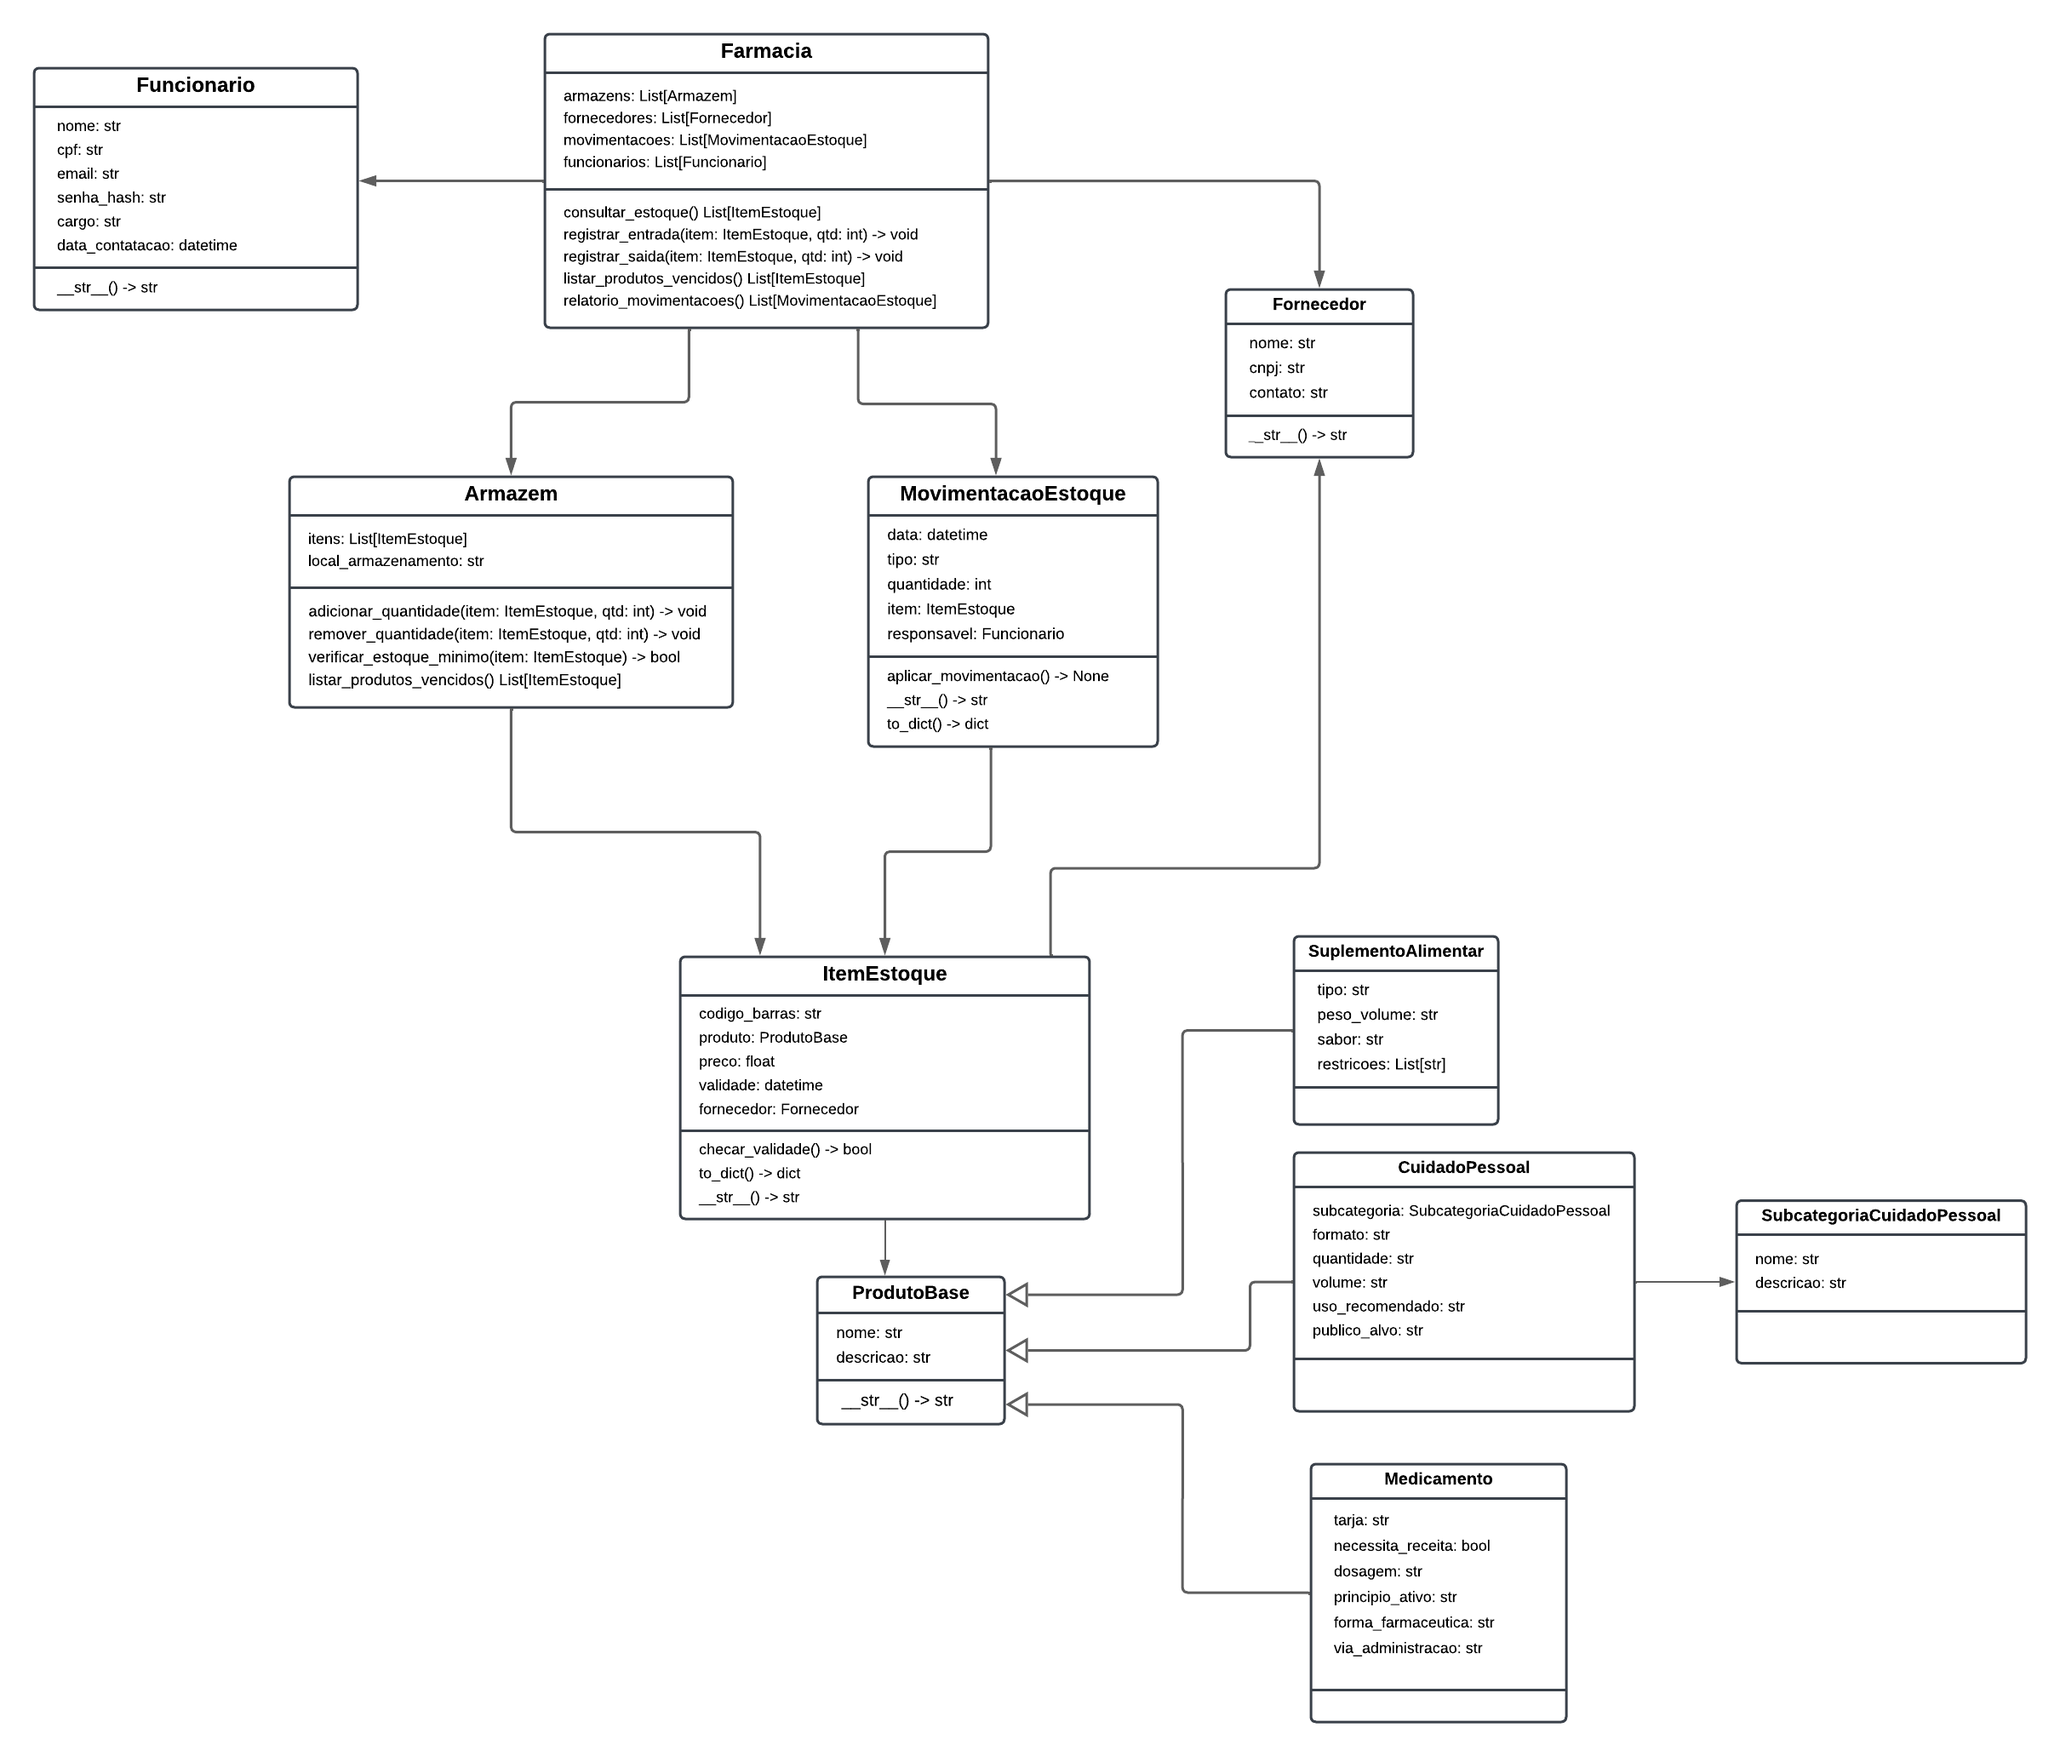
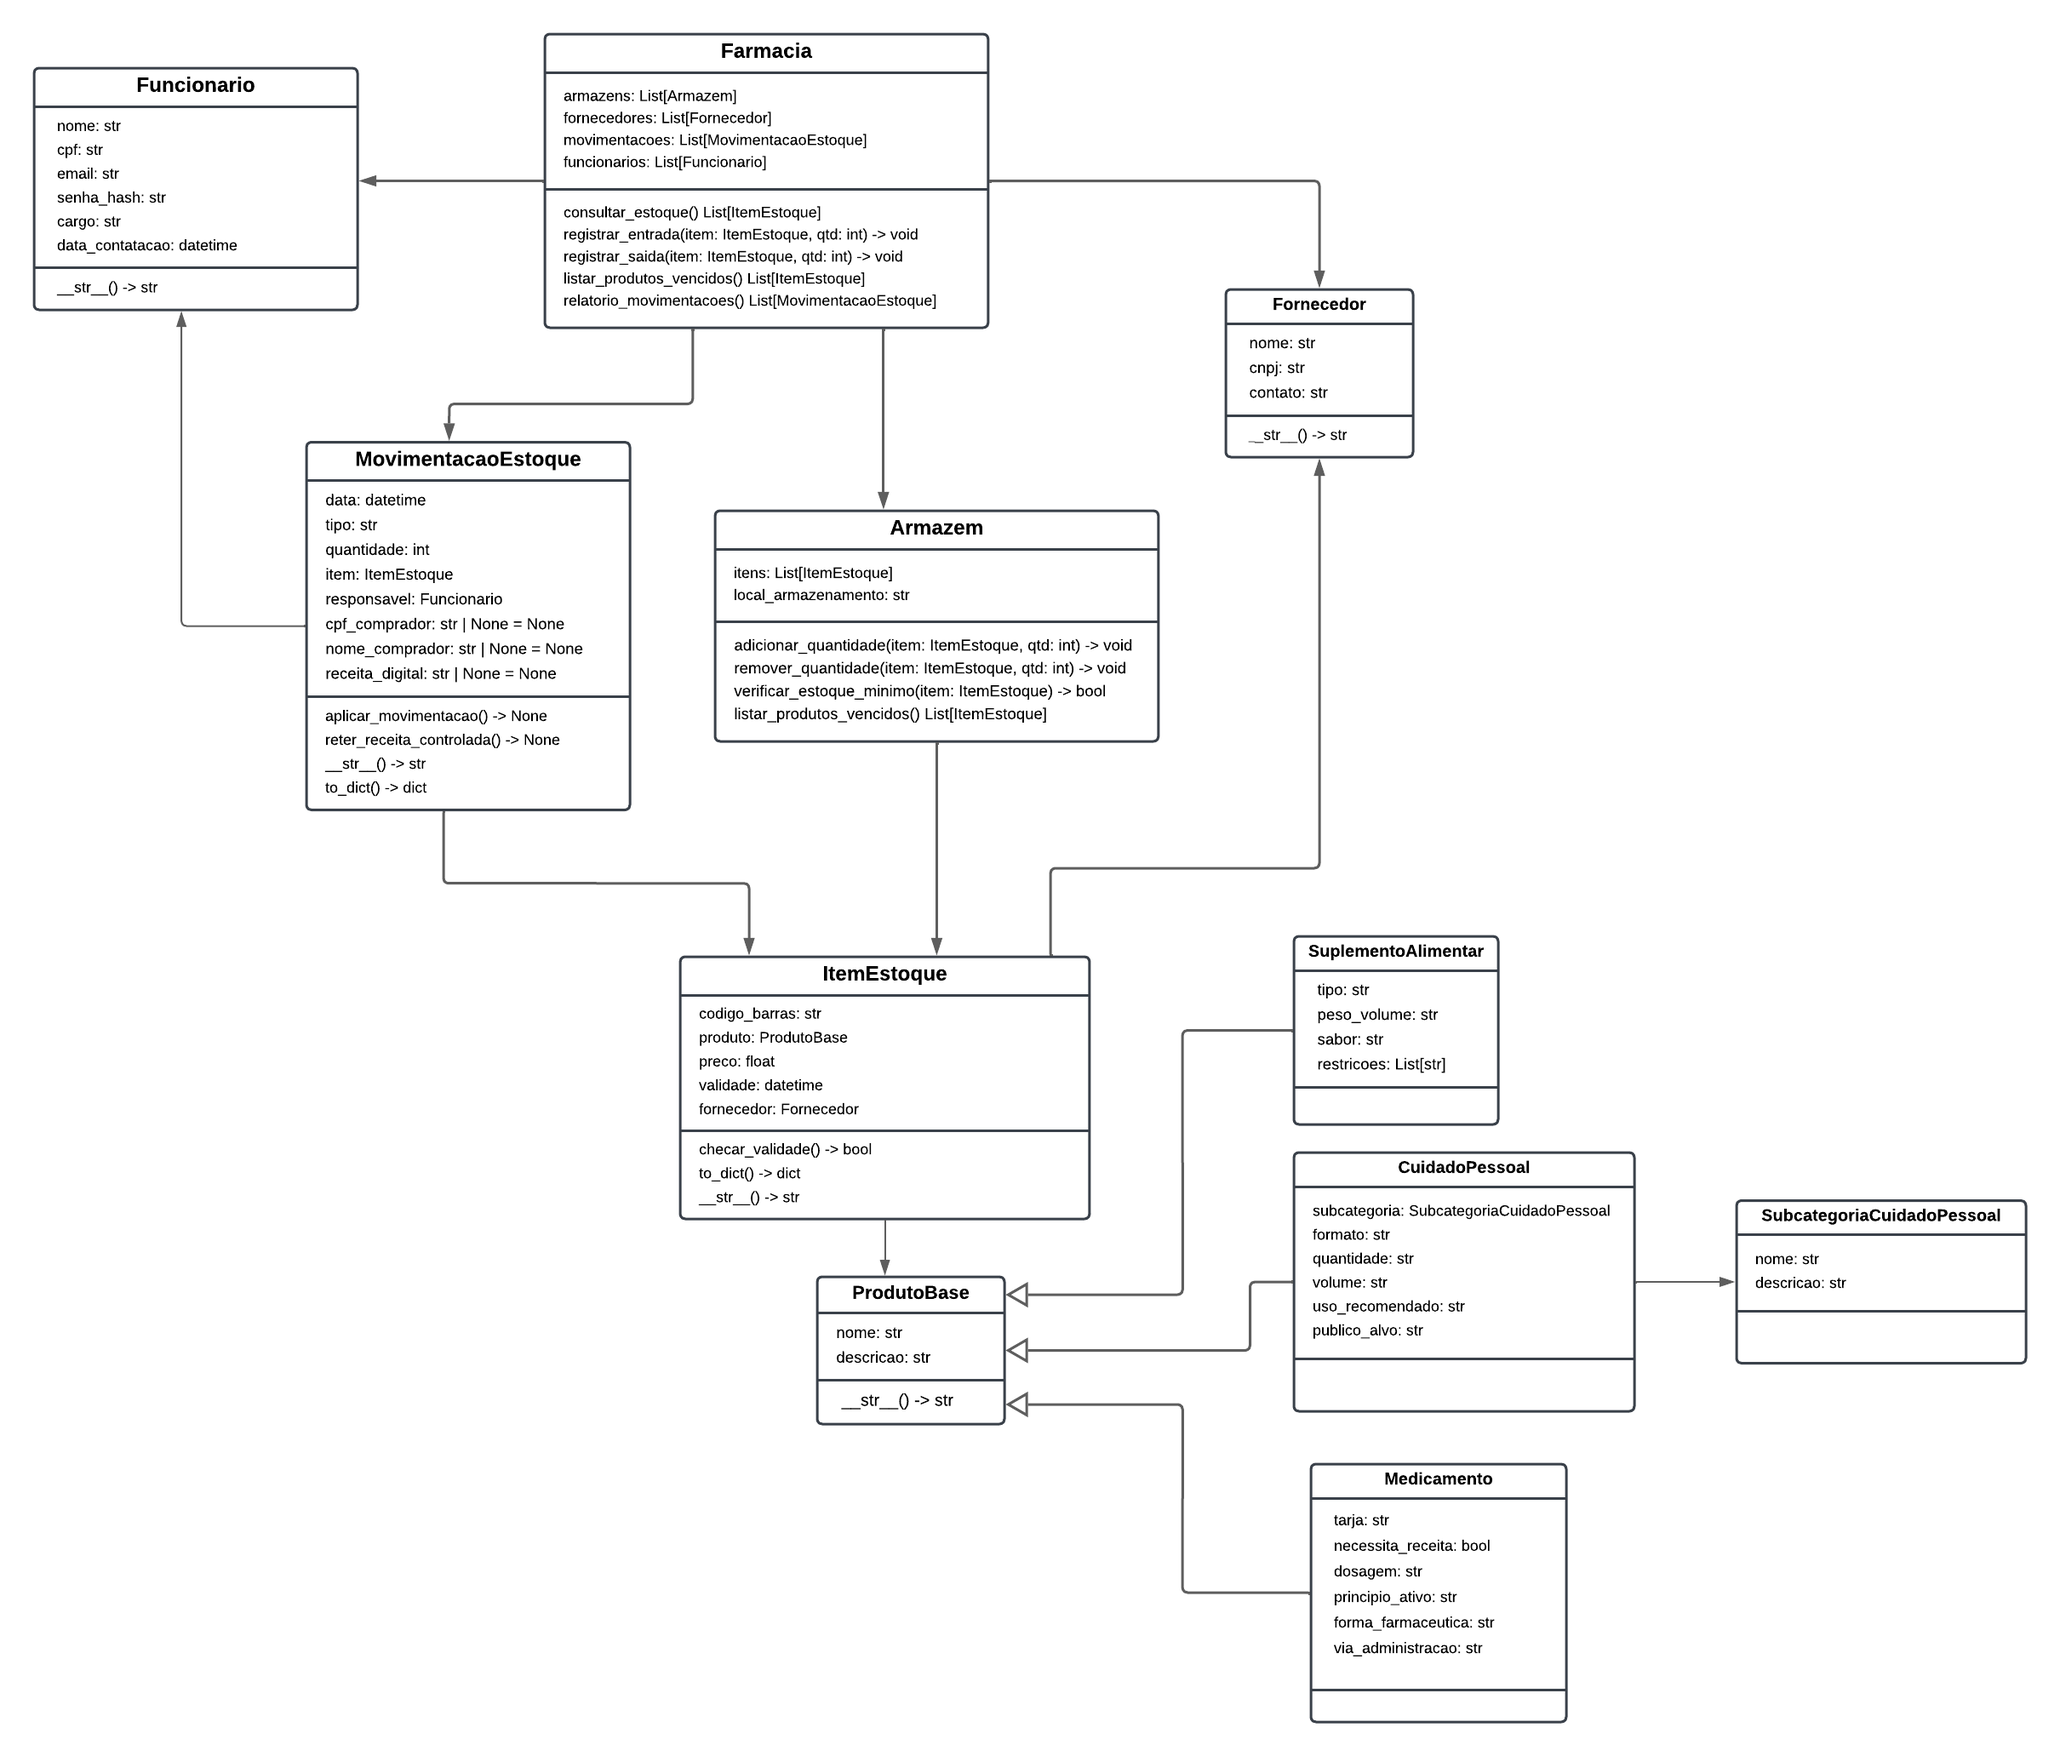
arruma errod de build para pr

Changed region(s): [[0.124, 0.2482, 0.5579, 0.4653], [0.3409, 0.4964, 0.3719, 0.5274]]

diff --git a/site/index.html b/site/index.html
@@ -777,7 +777,7 @@
 <hr />
 <h2 id="diagrama-de-classes">Diagrama de Classes</h2>
 <blockquote>
-<p>O diagrama de classes representa a estrutura orientada a objetos do sistema ReMed.io adaptado do <a href="projeto-antigo.md">Diagrama de Classes do projeto antigo</a>. </p>
+<p>O diagrama de classes representa a estrutura orientada a objetos do sistema ReMed.io adaptado do <a href="../historico-referencia/projeto-antigo.md">Diagrama de Classes do projeto antigo</a>. </p>
 </blockquote>
 <p align="center">
   <a href="https://raw.githubusercontent.com/remed-io/Docs/refs/heads/main/docs/assets/diagrama-novo.png" target="_blank">

diff --git a/docs/documentacao-sistema/banco-de-dados/dicionario.md b/docs/documentacao-sistema/banco-de-dados/dicionario.md
@@ -122,6 +122,10 @@
 | data                   | TIMESTAMP    |    |    | ❌       | Data da movimentação                           |
 | tipo                   | CHAR(20)     |    |    | ❌       | Tipo ('entrada' ou 'saida')                    |
 | quantidade             | INT          |    |    | ❌       | Quantidade movimentada                         |
+| cpf_comprador         | CHAR(11)     |    |    | ✔       | CPF do comprador (se aplicável)                |
+| nome_comprador        | CHAR(100)    |    |    | ✔       | Nome do comprador (se aplicável)               |
+| receita_medica_digital| TEXT         |    |    | ✔       | Receita médica digital (se aplicável)          |
+| funcionario_id        | INT          |    | ✔ | ❌       | Ref. Funcionario(funcionario_id)               |
 
 ---
 

diff --git a/docs/index.md b/docs/index.md
@@ -75,7 +75,7 @@ O projeto adota uma arquitetura **modular** baseada em repositórios independent
 
 ## Diagrama de Classes
 
-> O diagrama de classes representa a estrutura orientada a objetos do sistema ReMed.io adaptado do [Diagrama de Classes do projeto antigo](projeto-antigo.md). 
+> O diagrama de classes representa a estrutura orientada a objetos do sistema ReMed.io adaptado do [Diagrama de Classes do projeto antigo](https://raw.githubusercontent.com/remed-io/Docs/refs/heads/main/docs/assets/diagrama-antigo.png). 
 
 <p align="center">
   <a href="https://raw.githubusercontent.com/remed-io/Docs/refs/heads/main/docs/assets/diagrama-novo.png" target="_blank">
